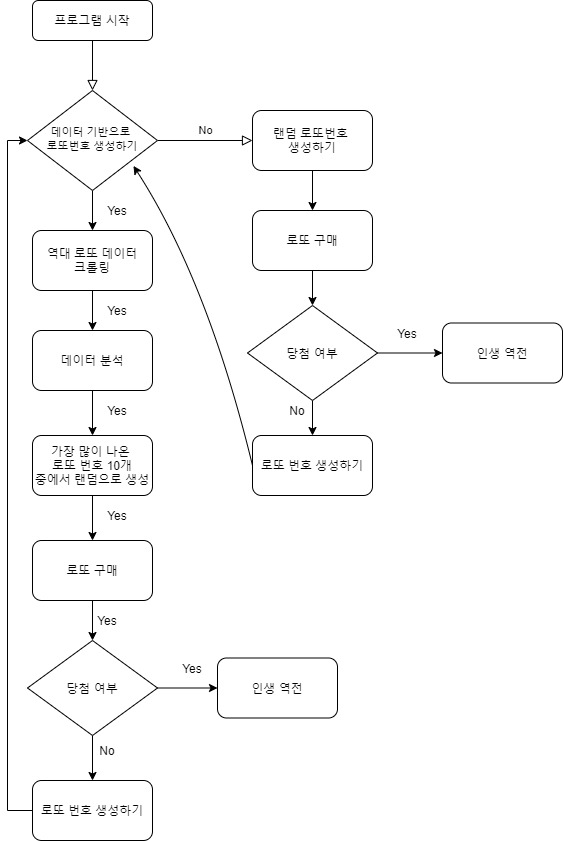
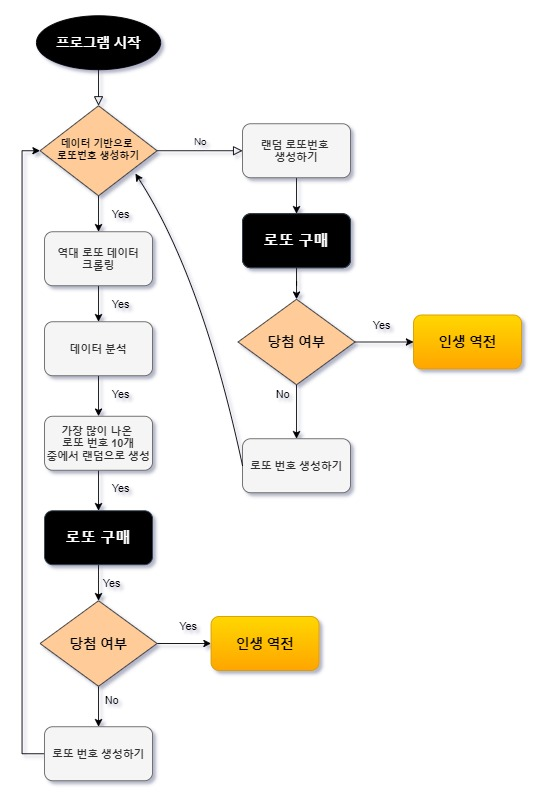
README.MD 사진 변경

diff --git a/README.md b/README.md
@@ -109,7 +109,7 @@ __프로젝트 인원__
 
 # 3. 프로젝트 기대효과
 
--  로또 당첨을 원하는 사용자에게 이 프로그램을 무료 공급 및 의미있는 데이터를 기반으로 당첨 가능성 있는 __확률__ 을 제공
+-  로또 당첨을 원하는 사용자에게 이 프로그램을 무료 공급 및 의미있는 데이터를 기반으로 당첨 가능성 있는 __확률__ 을 제공.
 
 -  이 프로그램을 계속 사용하므로써 얻게되는 데이터를 이용해 더 가능성있는 __당첨 가능성 확률의 조합__ 을 만들 수 있음
 
